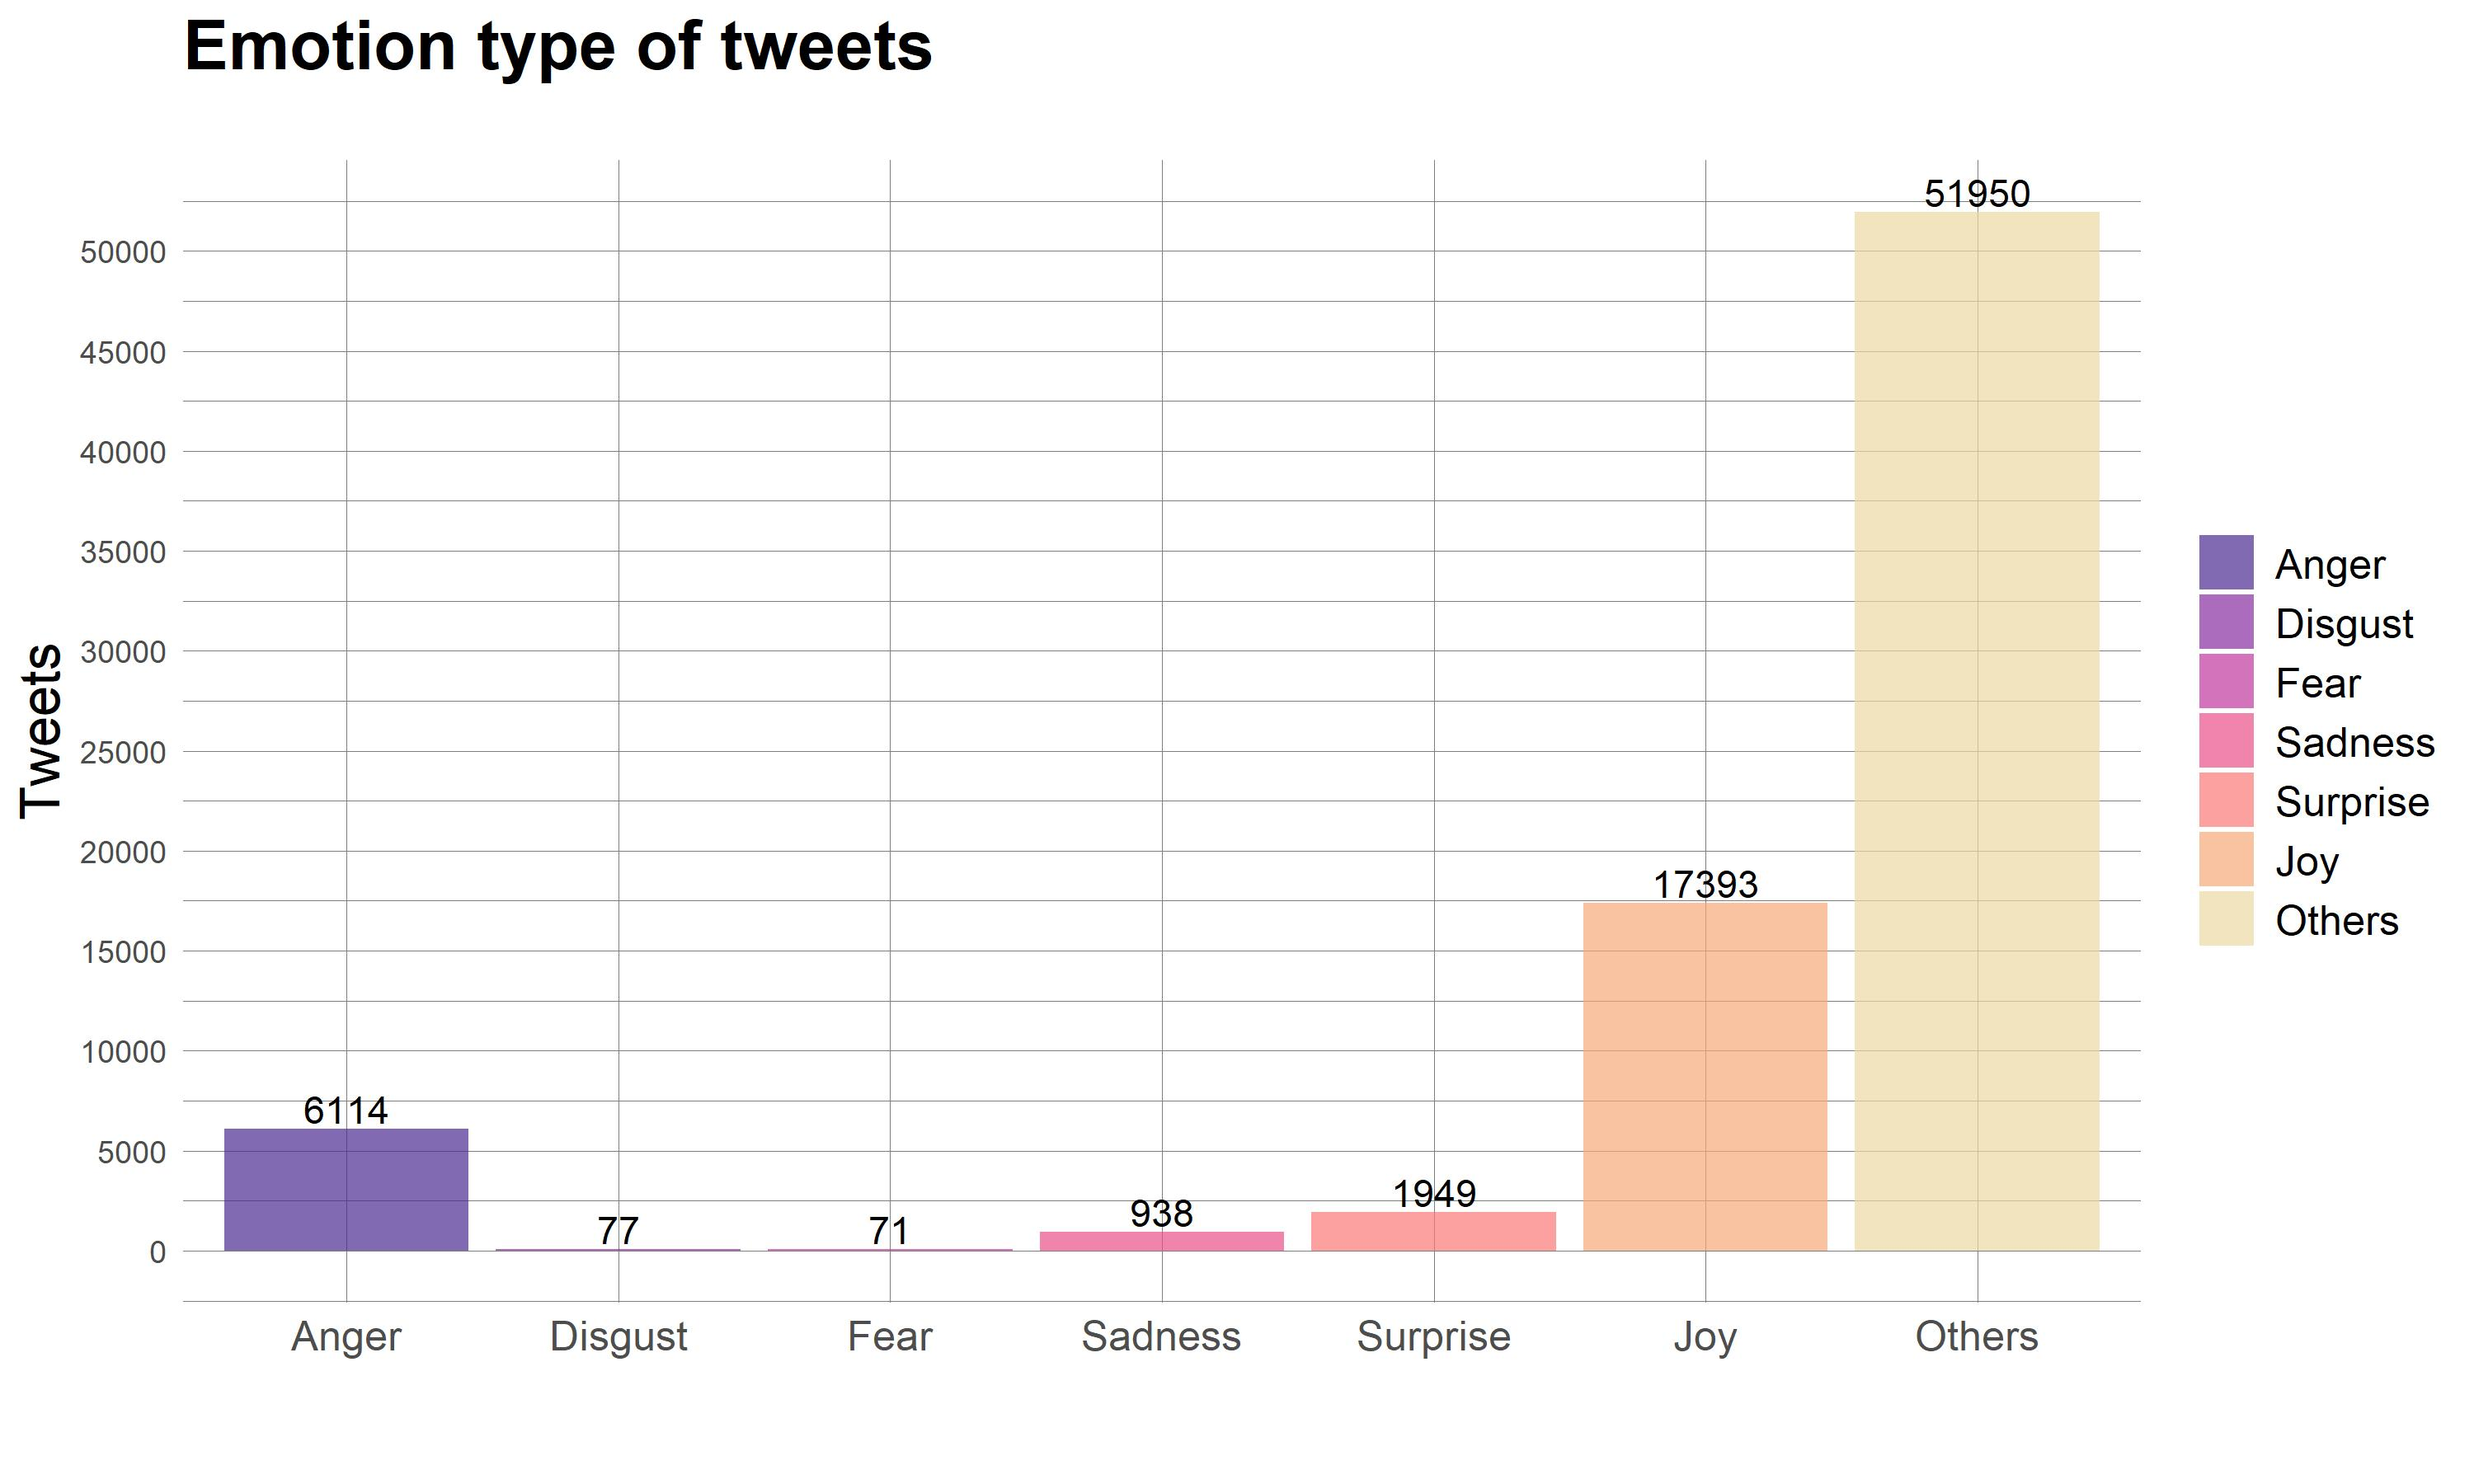
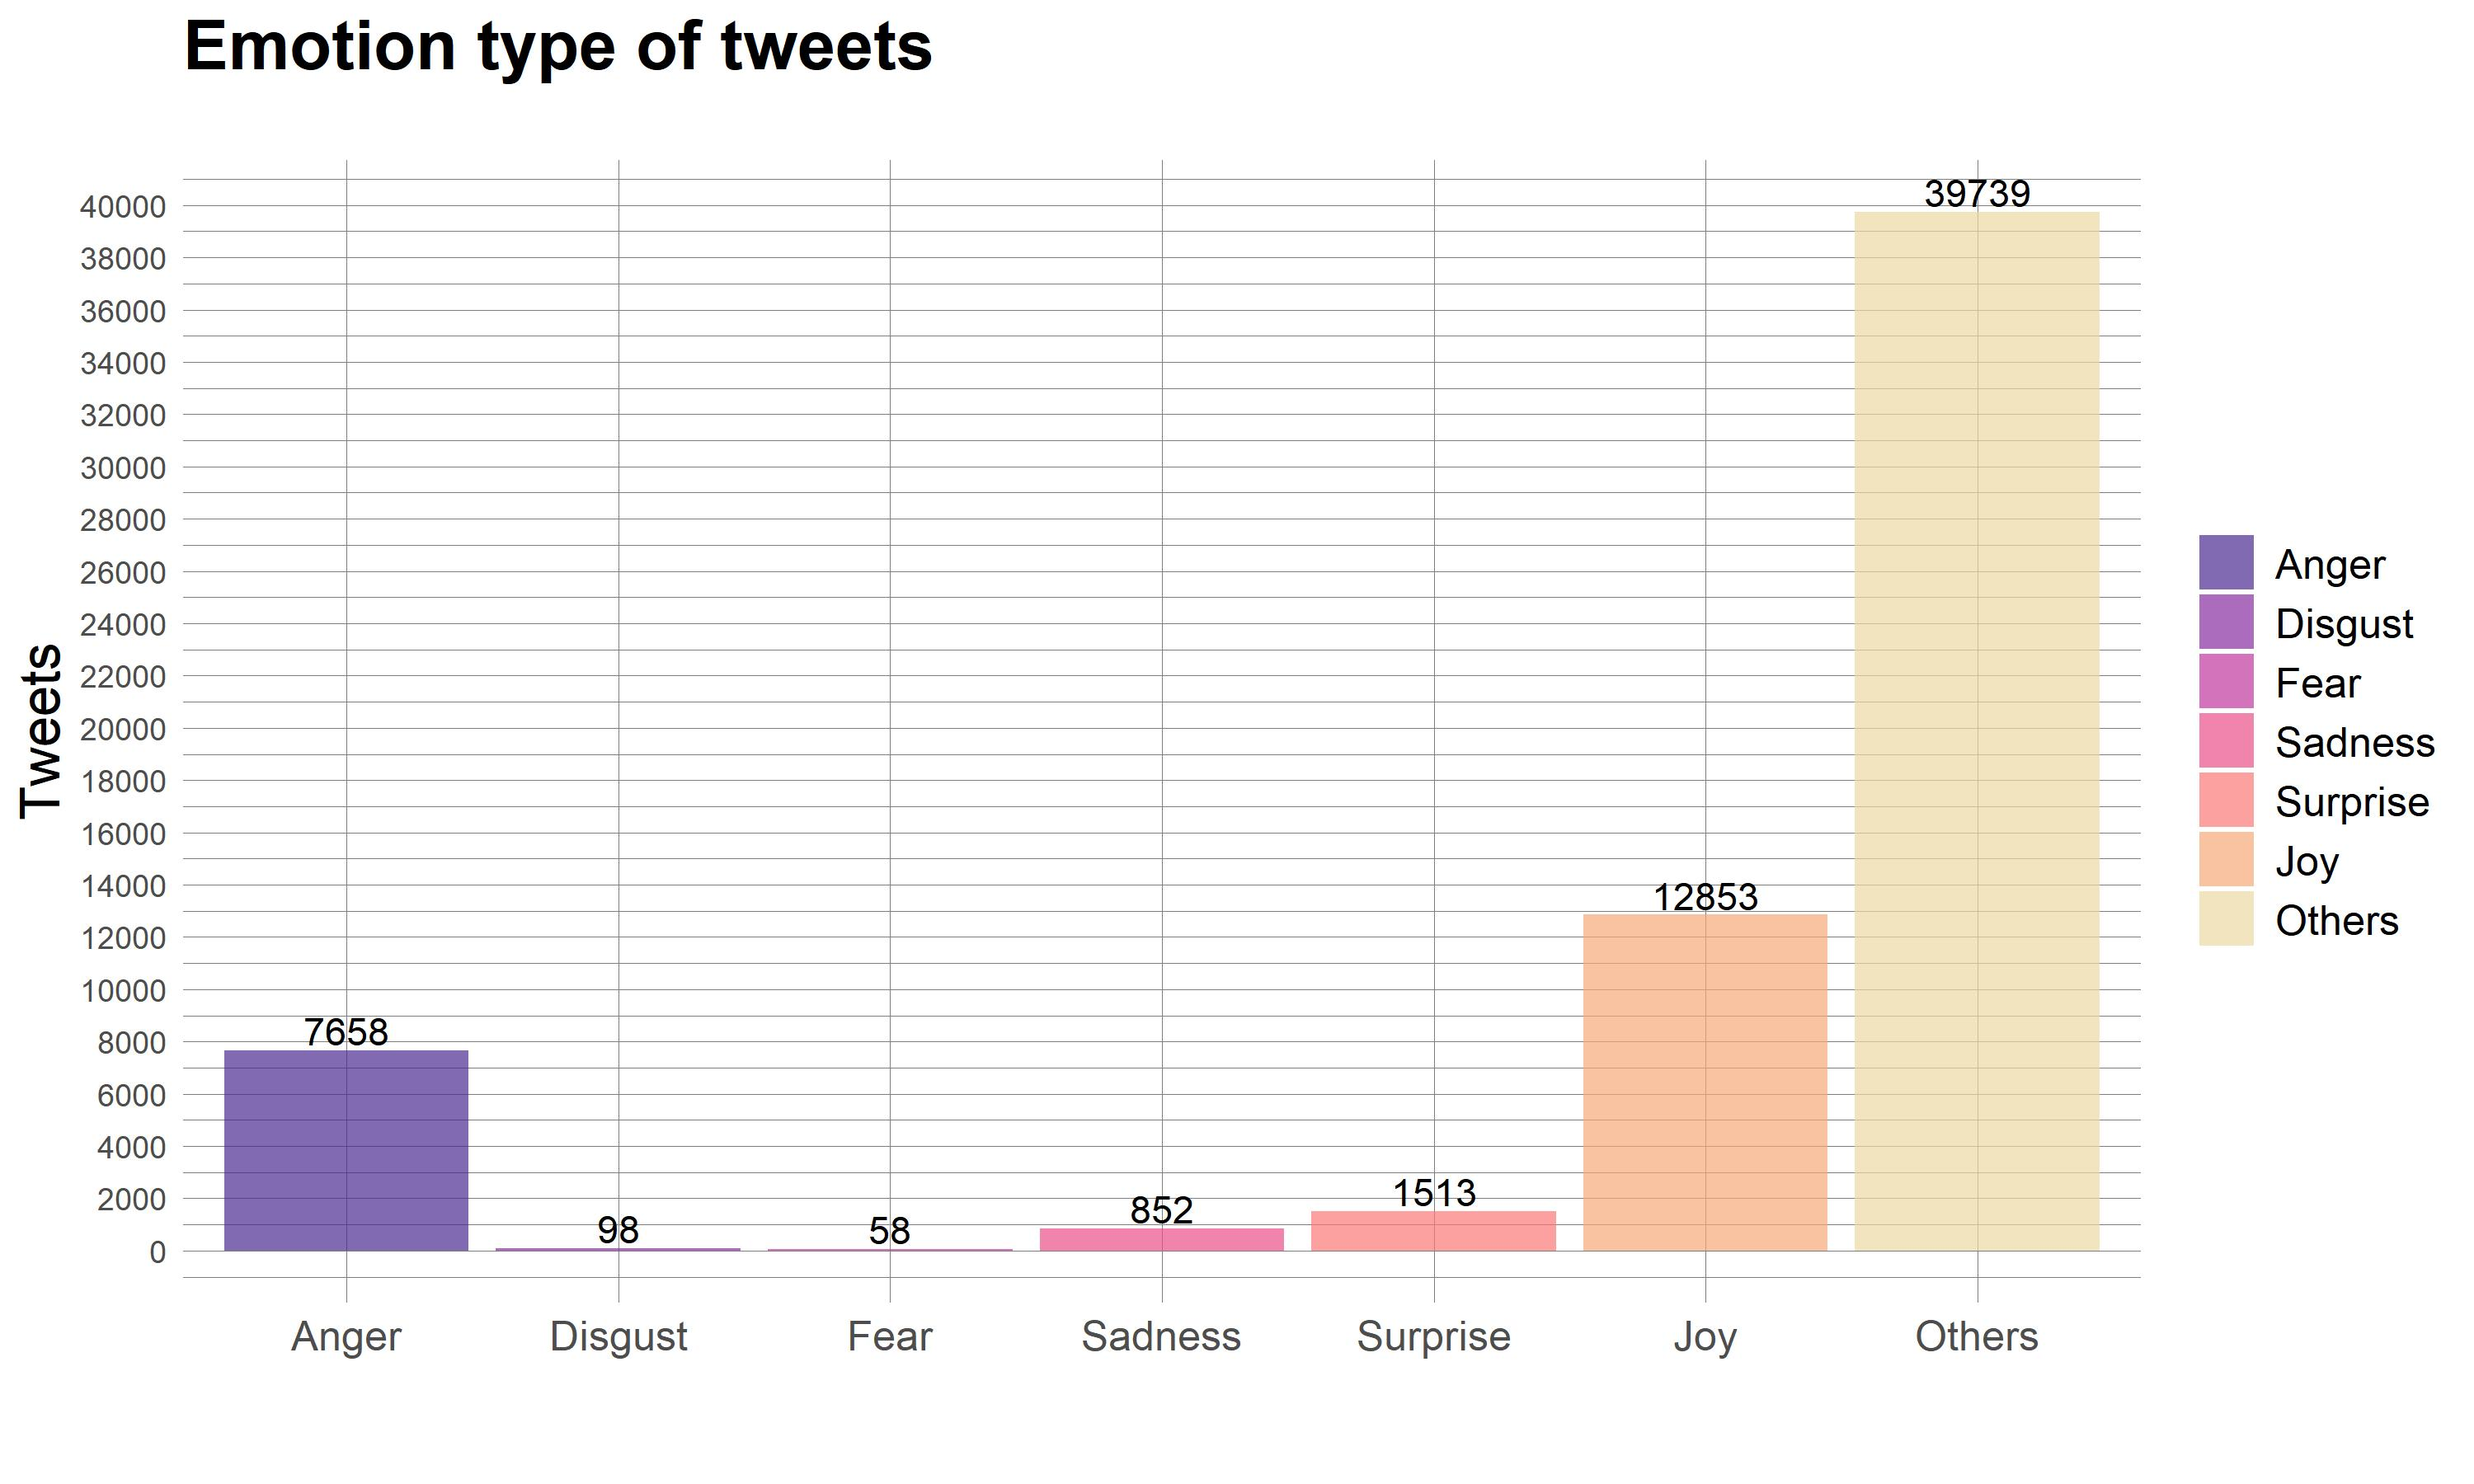
Sentiment analysis
Input: "sentiment-emotion-analysis-sp.csv"
Output: several files into "03_figures/Sentiment analysis/"

diff --git a/03_figures/Sentiment analysis/sum_stats_emotions.html b/03_figures/Sentiment analysis/sum_stats_emotions.html
@@ -287,52 +287,52 @@ border: 0;
 <tbody>
   <tr>
    <td style="text-align:left;"> Anger </td>
-   <td style="text-align:left;"> 6114 </td>
-   <td style="text-align:left;"> 13.32 </td>
-   <td style="text-align:left;"> 1.1 </td>
-   <td style="text-align:left;"> 3.53 </td>
+   <td style="text-align:left;"> 7658 </td>
+   <td style="text-align:left;"> 7.84 </td>
+   <td style="text-align:left;"> 0.88 </td>
+   <td style="text-align:left;"> 1.88 </td>
   </tr>
   <tr>
    <td style="text-align:left;"> Disgust </td>
-   <td style="text-align:left;"> 77 </td>
-   <td style="text-align:left;"> 8.92 </td>
-   <td style="text-align:left;"> 0.69 </td>
-   <td style="text-align:left;"> 3.88 </td>
+   <td style="text-align:left;"> 98 </td>
+   <td style="text-align:left;"> 6.48 </td>
+   <td style="text-align:left;"> 0.87 </td>
+   <td style="text-align:left;"> 2.63 </td>
   </tr>
   <tr>
    <td style="text-align:left;"> Fear </td>
-   <td style="text-align:left;"> 71 </td>
-   <td style="text-align:left;"> 5.54 </td>
-   <td style="text-align:left;"> 1.01 </td>
-   <td style="text-align:left;"> 0.96 </td>
+   <td style="text-align:left;"> 58 </td>
+   <td style="text-align:left;"> 6.17 </td>
+   <td style="text-align:left;"> 0.91 </td>
+   <td style="text-align:left;"> 1.05 </td>
   </tr>
   <tr>
    <td style="text-align:left;"> Sadness </td>
-   <td style="text-align:left;"> 938 </td>
-   <td style="text-align:left;"> 16.05 </td>
-   <td style="text-align:left;"> 1.03 </td>
-   <td style="text-align:left;"> 3.87 </td>
+   <td style="text-align:left;"> 852 </td>
+   <td style="text-align:left;"> 15.28 </td>
+   <td style="text-align:left;"> 1.02 </td>
+   <td style="text-align:left;"> 3.51 </td>
   </tr>
   <tr>
    <td style="text-align:left;"> Surprise </td>
-   <td style="text-align:left;"> 1949 </td>
-   <td style="text-align:left;"> 8.44 </td>
+   <td style="text-align:left;"> 1513 </td>
+   <td style="text-align:left;"> 9.01 </td>
    <td style="text-align:left;"> 0.37 </td>
-   <td style="text-align:left;"> 2.58 </td>
+   <td style="text-align:left;"> 2.29 </td>
   </tr>
   <tr>
    <td style="text-align:left;"> Joy </td>
-   <td style="text-align:left;"> 17393 </td>
-   <td style="text-align:left;"> 13.53 </td>
-   <td style="text-align:left;"> 0.55 </td>
-   <td style="text-align:left;"> 5.2 </td>
+   <td style="text-align:left;"> 12853 </td>
+   <td style="text-align:left;"> 11.5 </td>
+   <td style="text-align:left;"> 0.54 </td>
+   <td style="text-align:left;"> 4.64 </td>
   </tr>
   <tr>
    <td style="text-align:left;"> Others </td>
-   <td style="text-align:left;"> 51950 </td>
-   <td style="text-align:left;"> 8.84 </td>
-   <td style="text-align:left;"> 0.49 </td>
-   <td style="text-align:left;"> 4.23 </td>
+   <td style="text-align:left;"> 39739 </td>
+   <td style="text-align:left;"> 8.08 </td>
+   <td style="text-align:left;"> 0.54 </td>
+   <td style="text-align:left;"> 3.97 </td>
   </tr>
 </tbody>
 </table>

diff --git a/03_figures/Sentiment analysis/Archive/Unfiltered/sum_stats_emotions.html b/03_figures/Sentiment analysis/Archive/Unfiltered/sum_stats_emotions.html
@@ -277,7 +277,7 @@ border: 0;
 <table class="table" style="margin-left: auto; margin-right: auto;">
  <thead>
   <tr>
-   <th style="text-align:left;"> Sentiment </th>
+   <th style="text-align:left;"> Emotion </th>
    <th style="text-align:left;"> Number of tweets </th>
    <th style="text-align:left;"> Likes per tweet </th>
    <th style="text-align:left;"> Replies per tweet </th>
@@ -286,25 +286,53 @@ border: 0;
  </thead>
 <tbody>
   <tr>
-   <td style="text-align:left;"> Positive </td>
-   <td style="text-align:left;"> 20530 </td>
-   <td style="text-align:left;"> 10.69 </td>
-   <td style="text-align:left;"> 0.47 </td>
-   <td style="text-align:left;"> 3.55 </td>
+   <td style="text-align:left;"> Anger </td>
+   <td style="text-align:left;"> 6114 </td>
+   <td style="text-align:left;"> 13.32 </td>
+   <td style="text-align:left;"> 1.1 </td>
+   <td style="text-align:left;"> 3.53 </td>
   </tr>
   <tr>
-   <td style="text-align:left;"> Negative </td>
-   <td style="text-align:left;"> 13742 </td>
-   <td style="text-align:left;"> 8.34 </td>
-   <td style="text-align:left;"> 0.8 </td>
+   <td style="text-align:left;"> Disgust </td>
+   <td style="text-align:left;"> 77 </td>
+   <td style="text-align:left;"> 8.92 </td>
+   <td style="text-align:left;"> 0.69 </td>
+   <td style="text-align:left;"> 3.88 </td>
+  </tr>
+  <tr>
+   <td style="text-align:left;"> Fear </td>
+   <td style="text-align:left;"> 71 </td>
+   <td style="text-align:left;"> 5.54 </td>
+   <td style="text-align:left;"> 1.01 </td>
+   <td style="text-align:left;"> 0.96 </td>
+  </tr>
+  <tr>
+   <td style="text-align:left;"> Sadness </td>
+   <td style="text-align:left;"> 938 </td>
+   <td style="text-align:left;"> 16.05 </td>
+   <td style="text-align:left;"> 1.03 </td>
+   <td style="text-align:left;"> 3.87 </td>
+  </tr>
+  <tr>
+   <td style="text-align:left;"> Surprise </td>
+   <td style="text-align:left;"> 1949 </td>
+   <td style="text-align:left;"> 8.44 </td>
+   <td style="text-align:left;"> 0.37 </td>
    <td style="text-align:left;"> 2.58 </td>
   </tr>
   <tr>
-   <td style="text-align:left;"> Neutral </td>
-   <td style="text-align:left;"> 28499 </td>
-   <td style="text-align:left;"> 7.81 </td>
-   <td style="text-align:left;"> 0.56 </td>
-   <td style="text-align:left;"> 4.56 </td>
+   <td style="text-align:left;"> Joy </td>
+   <td style="text-align:left;"> 17393 </td>
+   <td style="text-align:left;"> 13.53 </td>
+   <td style="text-align:left;"> 0.55 </td>
+   <td style="text-align:left;"> 5.2 </td>
+  </tr>
+  <tr>
+   <td style="text-align:left;"> Others </td>
+   <td style="text-align:left;"> 51950 </td>
+   <td style="text-align:left;"> 8.84 </td>
+   <td style="text-align:left;"> 0.49 </td>
+   <td style="text-align:left;"> 4.23 </td>
   </tr>
 </tbody>
 </table>

diff --git a/03_figures/Sentiment analysis/Archive/Unfiltered/sum_stats_tweets.html b/03_figures/Sentiment analysis/Archive/Unfiltered/sum_stats_tweets.html
@@ -287,24 +287,24 @@ border: 0;
 <tbody>
   <tr>
    <td style="text-align:left;"> Positive </td>
-   <td style="text-align:left;"> 20530 </td>
-   <td style="text-align:left;"> 10.69 </td>
-   <td style="text-align:left;"> 0.47 </td>
-   <td style="text-align:left;"> 3.55 </td>
+   <td style="text-align:left;"> 29278 </td>
+   <td style="text-align:left;"> 12.89 </td>
+   <td style="text-align:left;"> 0.49 </td>
+   <td style="text-align:left;"> 4.47 </td>
   </tr>
   <tr>
    <td style="text-align:left;"> Negative </td>
-   <td style="text-align:left;"> 13742 </td>
-   <td style="text-align:left;"> 8.34 </td>
-   <td style="text-align:left;"> 0.8 </td>
-   <td style="text-align:left;"> 2.58 </td>
+   <td style="text-align:left;"> 13398 </td>
+   <td style="text-align:left;"> 10.93 </td>
+   <td style="text-align:left;"> 0.88 </td>
+   <td style="text-align:left;"> 3.67 </td>
   </tr>
   <tr>
    <td style="text-align:left;"> Neutral </td>
-   <td style="text-align:left;"> 28499 </td>
-   <td style="text-align:left;"> 7.81 </td>
-   <td style="text-align:left;"> 0.56 </td>
-   <td style="text-align:left;"> 4.56 </td>
+   <td style="text-align:left;"> 35816 </td>
+   <td style="text-align:left;"> 7.95 </td>
+   <td style="text-align:left;"> 0.48 </td>
+   <td style="text-align:left;"> 4.5 </td>
   </tr>
 </tbody>
 </table>
